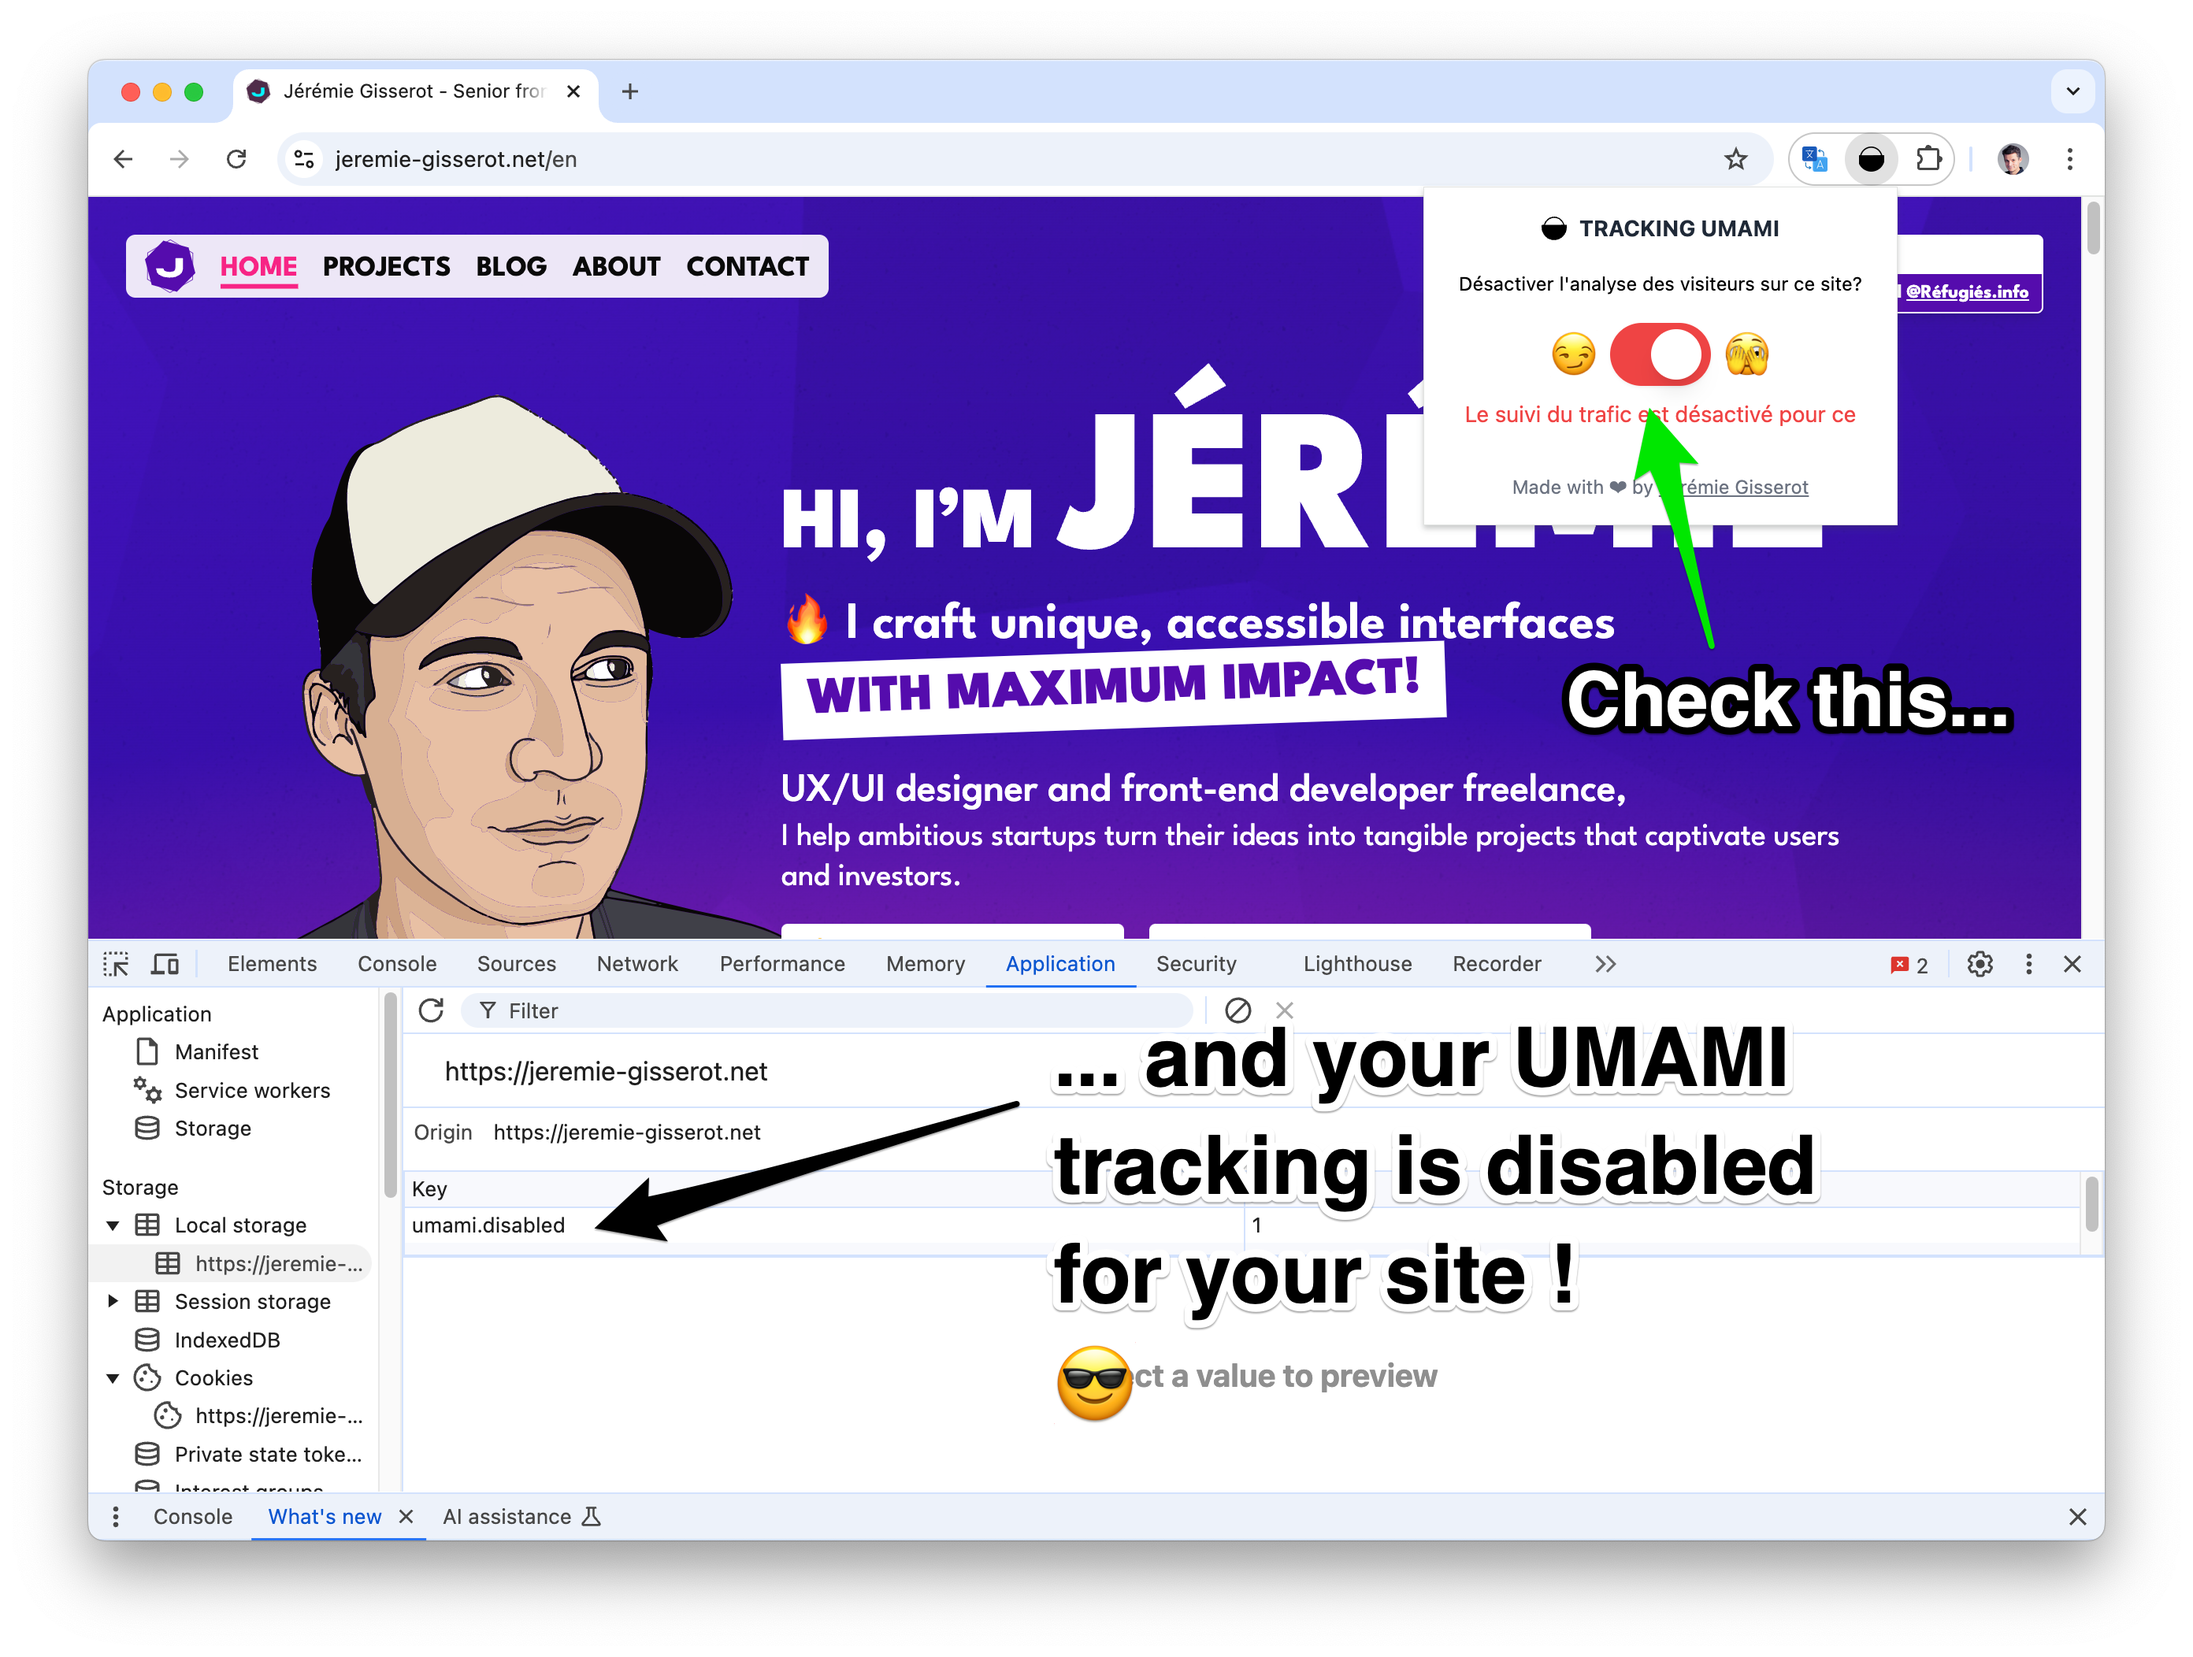
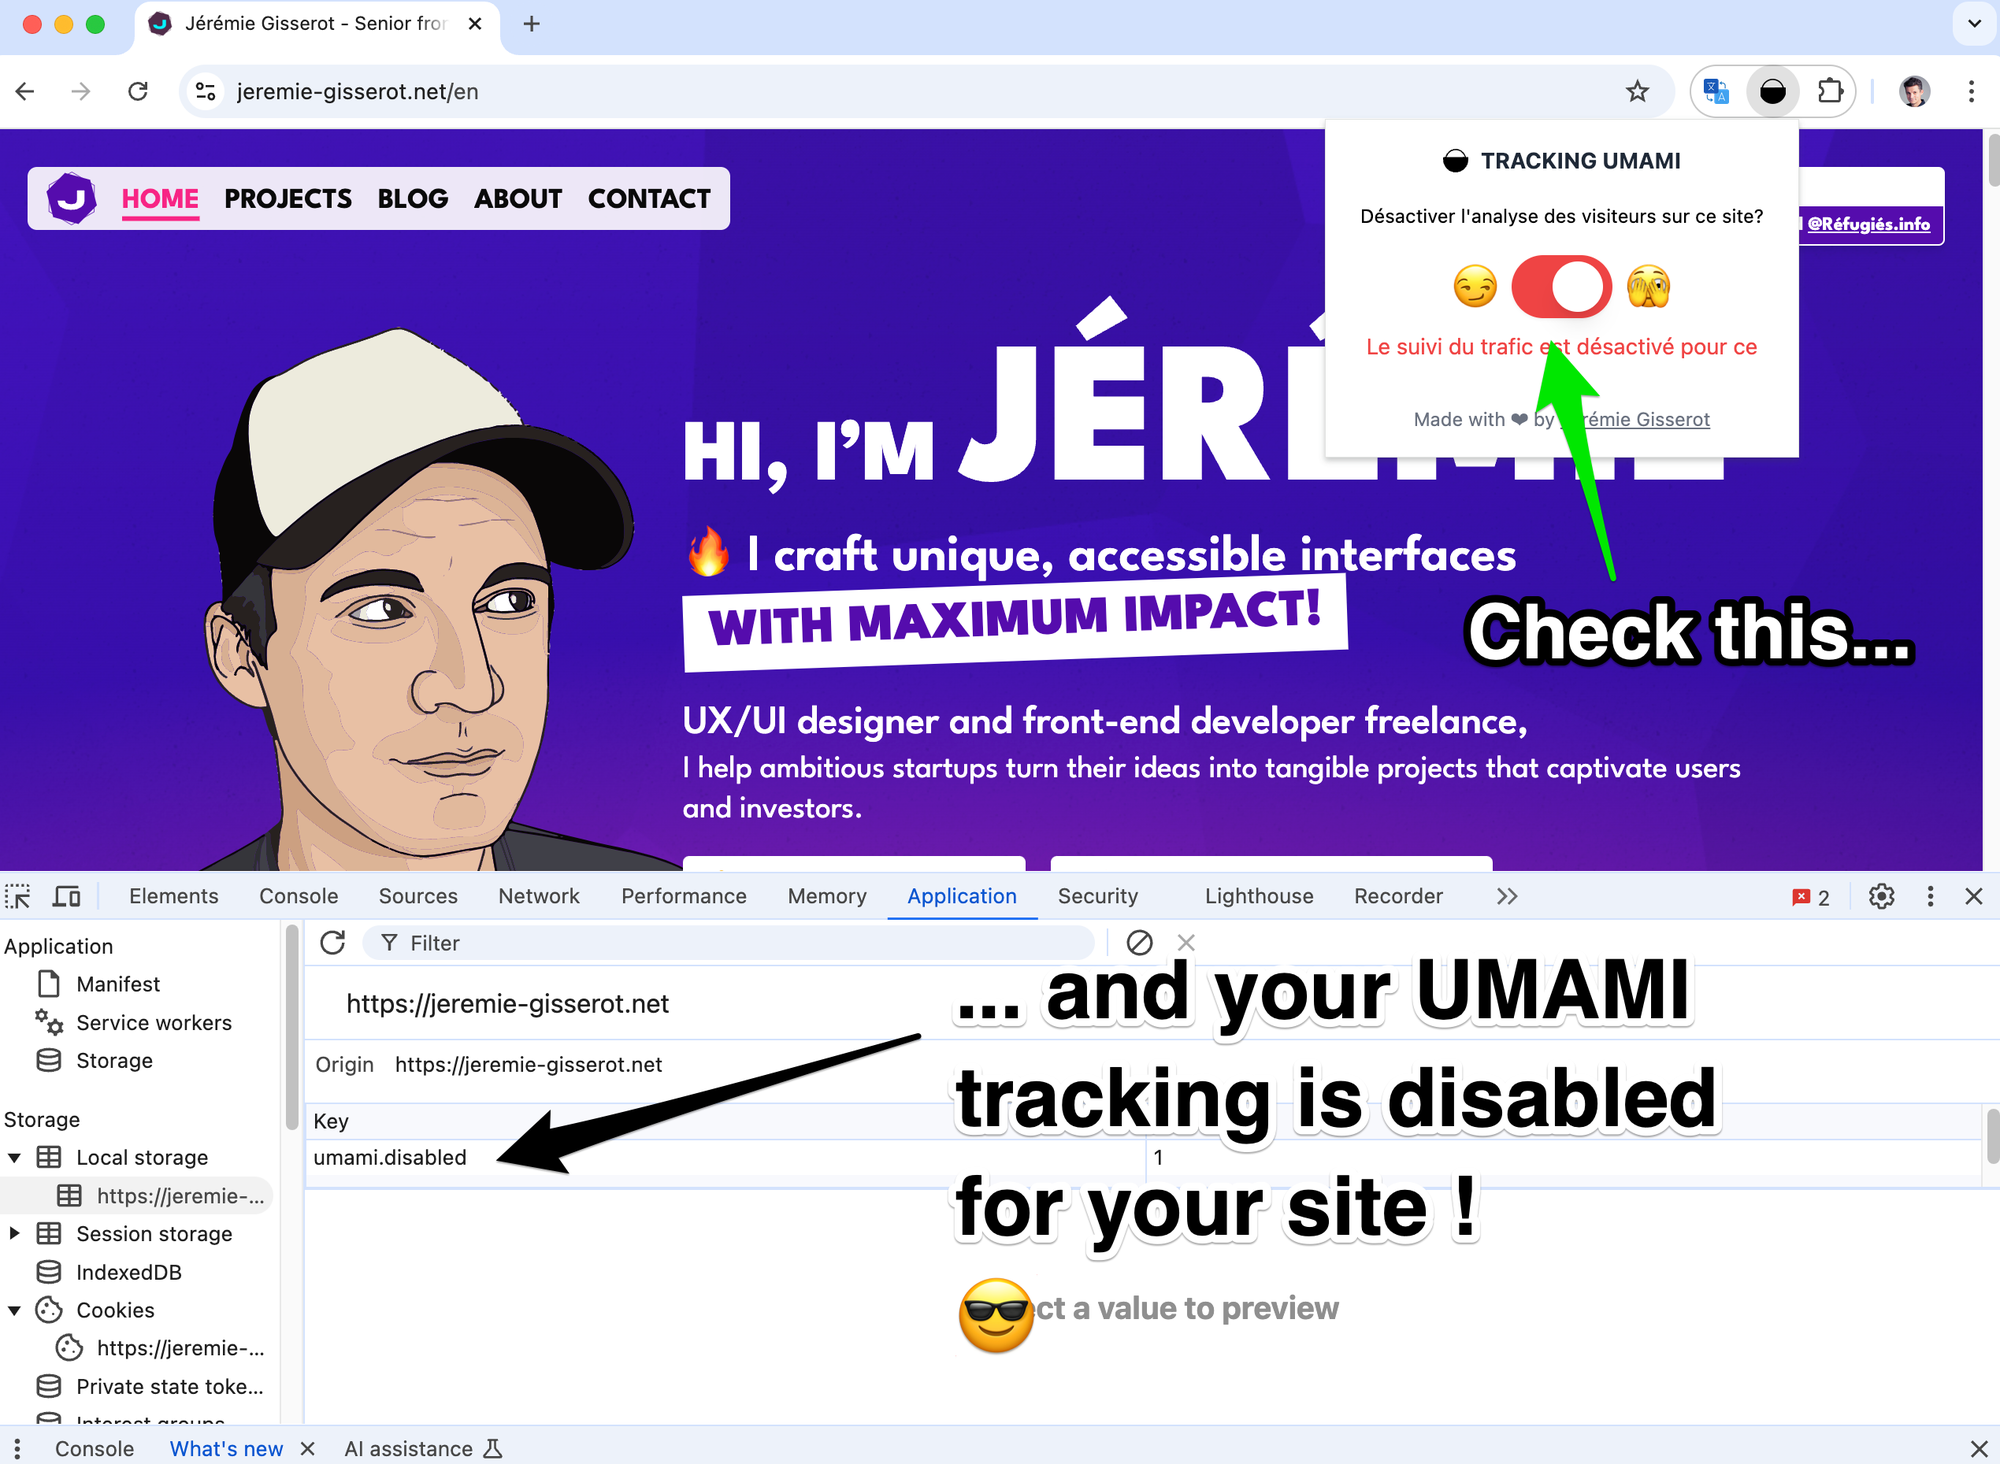
Chore: screenshot opitmization script

diff --git a/scripts/generate-store-assets.ts b/scripts/generate-store-assets.ts
@@ -1,0 +1,68 @@
+import sharp from "sharp";
+import path from "path";
+import { fileURLToPath } from "url";
+import fs from "fs/promises";
+
+// TypeScript requires different __dirname handling in ES modules
+const __filename = fileURLToPath(import.meta.url);
+const __dirname = path.dirname(__filename);
+
+interface StoreAssetConfig {
+  name: string;
+  width: number;
+  height: number;
+}
+
+const storeAssets: StoreAssetConfig[] = [
+  {
+    name: "screenshot",
+    width: 1280,
+    height: 800,
+  },
+  {
+    name: "promotional-small",
+    width: 440,
+    height: 280,
+  },
+];
+
+async function generateStoreAssets(): Promise<void> {
+  console.log("Starting store assets generation...");
+
+  const inputFile = path.join(__dirname, "../screenshots/screenshot.png");
+  const outputDir = path.join(__dirname, "../screenshots/generated");
+
+  try {
+    // Create the output directory if it doesn't exist
+    await fs.mkdir(outputDir, { recursive: true });
+
+    for (const asset of storeAssets) {
+      console.log(
+        `Generating ${asset.name} (${asset.width}x${asset.height})...`
+      );
+
+      await sharp(inputFile)
+        .resize(asset.width, asset.height, {
+          fit: "contain",
+          background: { r: 255, g: 255, b: 255, alpha: 1 }, // White background
+        })
+        .png({
+          compressionLevel: 9,
+          force: true,
+          palette: false, // 24-bit color as required
+        })
+        .toFile(path.join(outputDir, `${asset.name}.png`));
+
+      console.log(`✓ Successfully generated ${asset.name}`);
+    }
+
+    console.log(
+      "\n✨ All store assets generated successfully in screenshots/generated!"
+    );
+  } catch (error) {
+    console.error("\n❌ Error generating store assets:", error);
+    process.exit(1);
+  }
+}
+
+generateStoreAssets();
